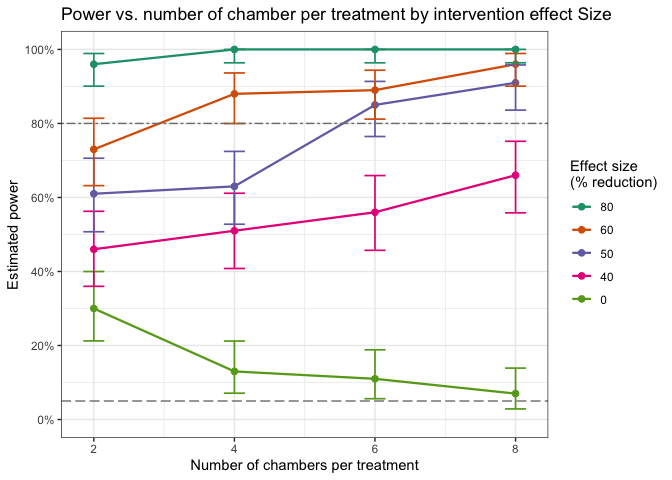
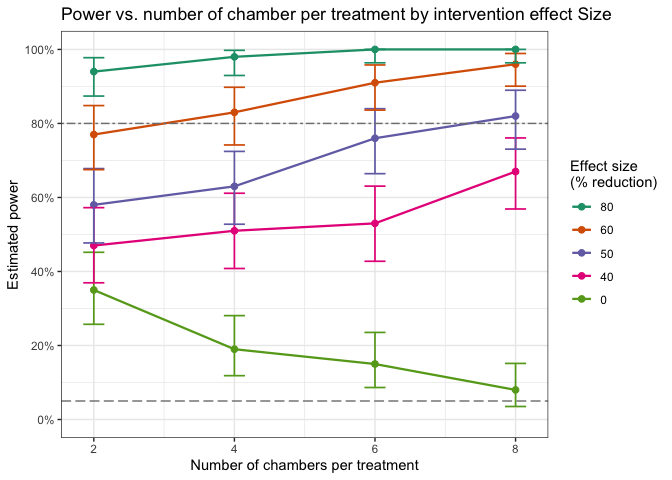
Update README and simulation functions

diff --git a/README.md b/README.md
@@ -7,9 +7,9 @@
 
 The powergene R package simulates mosquito count data under short- and
 long-term semi-field experimental design scenarios, evaluating single or
-combined interventions. It incorporates fixed treatment effects and
-random chamber-level variability to support robust power analysis and
-semi-field experimental planning.
+combined interventions. It incorporates fixed treatment effects, random
+chamber-level or sampling time-level variability to support robust power
+analysis for short- or long-term semi-field experimental planning.
 
 This package is an extension of a simulation based power analysis
 framework developed by [Kipingu et. al
@@ -91,14 +91,14 @@ package to estimate power of a short-term SFE
     sim.mosquitoes <- sim.mosquitoes[, c(-4,-5,-6)]
     sim.mosquitoes
     #>   replicates intvn chamber mosquito.count.fixed mosquito.count.random
-    #> 1          1     0     0-1                   51                    73
-    #> 2          2     0     0-2                   40                    63
-    #> 3          3     0     0-3                   46                    35
-    #> 4          4     0     0-4                   49                    41
-    #> 5          1     1     1-1                   12                     6
-    #> 6          2     1     1-2                    7                    10
-    #> 7          3     1     1-3                    9                     1
-    #> 8          4     1     1-4                    9                    15
+    #> 1          1     0     0-1                   50                    42
+    #> 2          2     0     0-2                   49                    68
+    #> 3          3     0     0-3                   50                    50
+    #> 4          4     0     0-4                   50                    46
+    #> 5          1     1     1-1                   16                    20
+    #> 6          2     1     1-2                   10                     3
+    #> 7          3     1     1-3                   11                    11
+    #> 8          4     1     1-4                   14                    13
 
 1.  Plot the simulated mosquitoes. This function plots a box plot with
     an option to jitter points if jitter=TURE and without jittering if
@@ -140,7 +140,7 @@ package to estimate power of a short-term SFE
     #output the p-values
     pvalue
     #>       pvalue 
-    #> 4.349834e-20
+    #> 9.288298e-20
 
 1.  Since power cannot be estimated from a single simulation, there is a
     need to simulate multiple data sets and estimate power. Now you can
@@ -170,7 +170,7 @@ package to estimate power of a short-term SFE
     #print estimated power
     round(power.estimate,2)
     #>    power ci.lower ci.upper 
-    #>     0.99     0.95     1.00
+    #>     1.00     0.96     1.00
 
 1.  Now you use the function to estimate power for varied number of
     chambers per treatment, e.g., 2,4,6,8.
@@ -214,8 +214,8 @@ package to estimate power of a short-term SFE
     #print the power results for each number of chambers per treatment
     round(power.df,2)
     #>   n.ch.per.trt power ci.lower ci.upper
-    #> 1            2  0.94     0.87     0.98
-    #> 2            4  0.99     0.95     1.00
+    #> 1            2  0.97     0.91     0.99
+    #> 2            4  1.00     0.96     1.00
     #> 3            6  1.00     0.96     1.00
     #> 4            8  1.00     0.96     1.00
 
@@ -301,24 +301,24 @@ package to estimate power of a short-term SFE
     # print power estimates
     results
     #>    n.ch.per.trt interv.effect power   ci.lower  ci.upper
-    #> 1             2           0.0  0.30 0.21240642 0.3998147
-    #> 2             4           0.0  0.13 0.07107305 0.2120407
-    #> 3             6           0.0  0.11 0.05620702 0.1883011
-    #> 4             8           0.0  0.07 0.02860529 0.1389197
-    #> 5             2           0.4  0.46 0.35984335 0.5625884
+    #> 1             2           0.0  0.35 0.25729378 0.4518494
+    #> 2             4           0.0  0.19 0.11844320 0.2806980
+    #> 3             6           0.0  0.15 0.08645439 0.2353075
+    #> 4             8           0.0  0.08 0.03517156 0.1515576
+    #> 5             2           0.4  0.47 0.36940516 0.5724185
     #> 6             4           0.4  0.51 0.40803633 0.6113558
-    #> 7             6           0.4  0.56 0.45718750 0.6591640
-    #> 8             8           0.4  0.66 0.55846673 0.7517765
-    #> 9             2           0.5  0.61 0.50731448 0.7059896
+    #> 7             6           0.4  0.53 0.42758148 0.6305948
+    #> 8             8           0.4  0.67 0.56882725 0.7608015
+    #> 9             2           0.5  0.58 0.47711920 0.6780145
     #> 10            4           0.5  0.63 0.52764836 0.7244334
-    #> 11            6           0.5  0.85 0.76469250 0.9135456
-    #> 12            8           0.5  0.91 0.83601774 0.9580164
-    #> 13            2           0.6  0.73 0.63198373 0.8139336
-    #> 14            4           0.6  0.88 0.79976432 0.9364311
-    #> 15            6           0.6  0.89 0.81169887 0.9437930
+    #> 11            6           0.5  0.76 0.66426451 0.8397754
+    #> 12            8           0.5  0.82 0.73052291 0.8896888
+    #> 13            2           0.6  0.77 0.67514127 0.8482684
+    #> 14            4           0.6  0.83 0.74182459 0.8977351
+    #> 15            6           0.6  0.91 0.83601774 0.9580164
     #> 16            8           0.6  0.96 0.90074284 0.9889955
-    #> 17            2           0.8  0.96 0.90074284 0.9889955
-    #> 18            4           0.8  1.00 0.96378331 1.0000000
+    #> 17            2           0.8  0.94 0.87397007 0.9776651
+    #> 18            4           0.8  0.98 0.92961607 0.9975687
     #> 19            6           0.8  1.00 0.96378331 1.0000000
     #> 20            8           0.8  1.00 0.96378331 1.0000000
 
